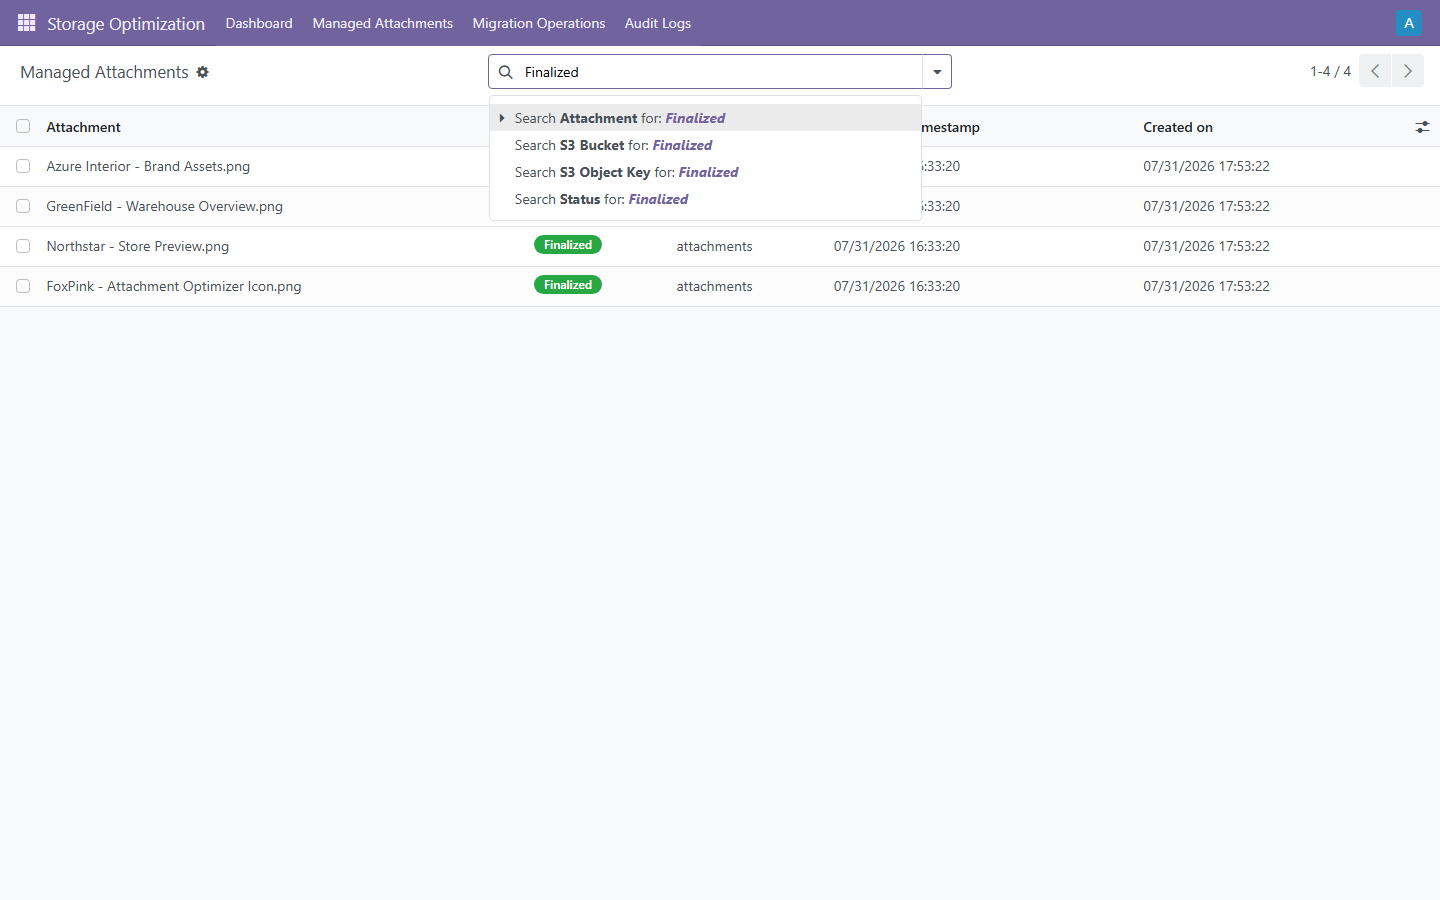
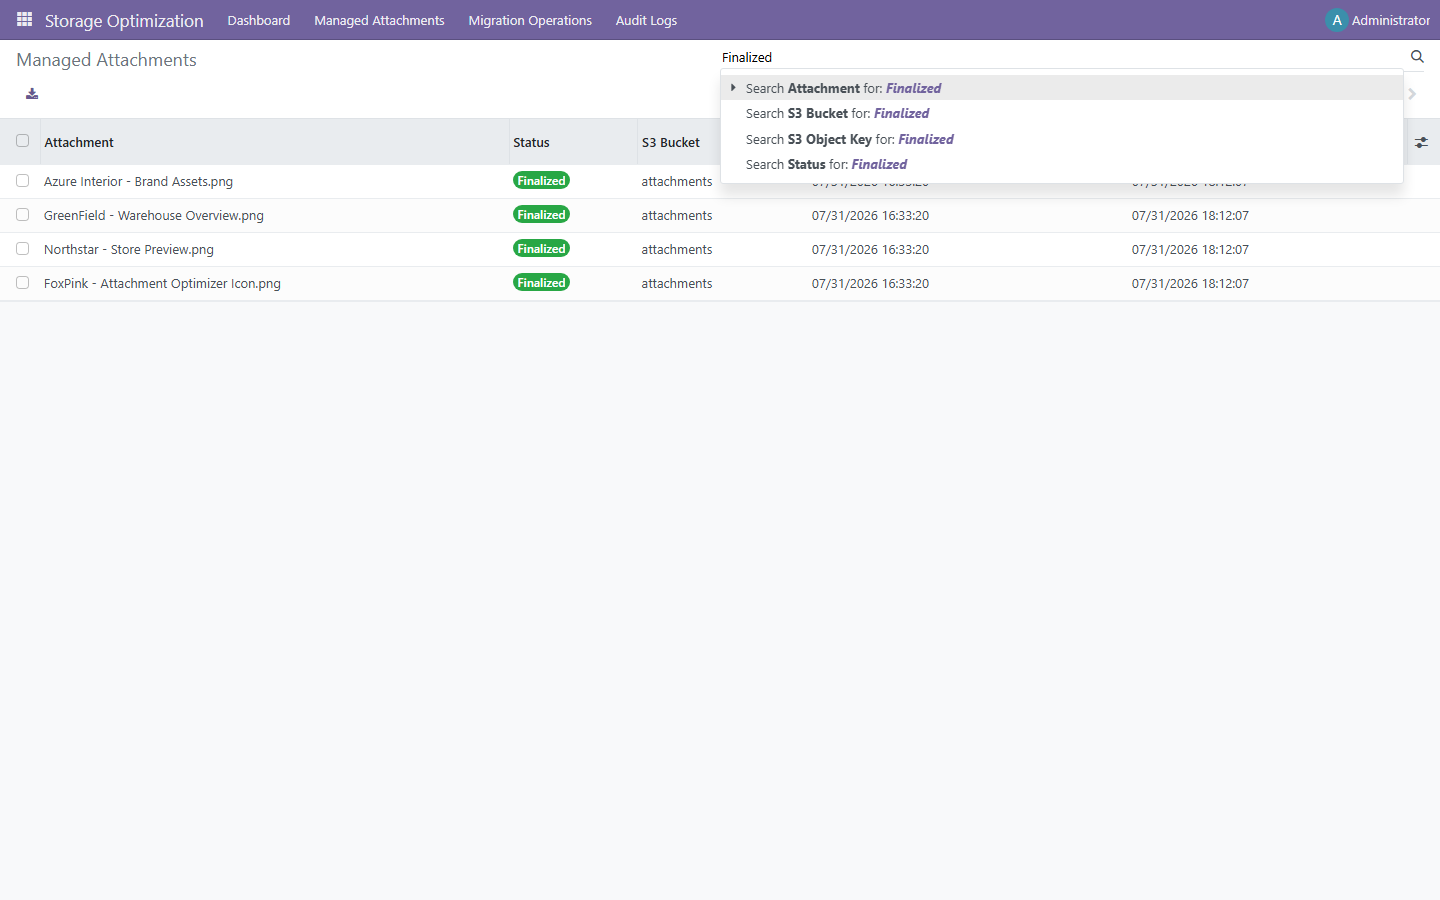
[16.0] Port module, verify flows, and refresh screenshots

diff --git a/attachment_optimizer/static/description/index.html b/attachment_optimizer/static/description/index.html
@@ -135,7 +135,7 @@
             </div>
         </div>
         <div style="border:1px solid #bae6fd; background:#f0f9ff; border-radius:10px; padding:14px 20px; color:#075985; text-align:center; font-size:13px; line-height:1.6;">
-            <strong>Transparent roadmap:</strong> Pro features are planned and are not included in version 17.0.1.0.1. Every feature presented elsewhere on this page is included in the Free Edition.
+            <strong>Transparent roadmap:</strong> Pro features are planned and are not included in version 16.0.1.0.1. Every feature presented elsewhere on this page is included in the Free Edition.
         </div>
 
         <!-- SCREENSHOTS GALLERY -->
@@ -289,7 +289,7 @@
                 Licensed under LGPL-3 &mdash; free to use, modify and distribute.
             </p>
             <div style="display:inline-block; border:2px solid #4f46e5; color:#4f46e5; font-weight:700; font-size:13px; padding:10px 28px; border-radius:8px; letter-spacing:0.2px;">Support: aduy000@gmail.com</div>
-            <p style="font-size:11px; color:#94a3b8; margin:20px 0 0;">Version 17.0.1.0.1 &middot; Built and maintained by FoxPink</p>
+            <p style="font-size:11px; color:#94a3b8; margin:20px 0 0;">Version 16.0.1.0.1 &middot; Built and maintained by FoxPink</p>
         </div>
 
     </div>

diff --git a/attachment_optimizer/__init__.py b/attachment_optimizer/__init__.py
@@ -1,8 +1,16 @@
+from odoo import SUPERUSER_ID, api
+
 from . import models
 from . import wizard
 
 
-def _post_init_hook(env):
+def _hook_env(env_or_cr, registry=None):
+    if registry is None:
+        return env_or_cr
+    return api.Environment(env_or_cr, SUPERUSER_ID, {})
+
+def _post_init_hook(env_or_cr, registry=None):
+    env = _hook_env(env_or_cr, registry)
     group = env.ref('attachment_optimizer.group_storage_optimization_manager', raise_if_not_found=False)
     if group:
         base_user = env.ref('base.group_user')
@@ -11,7 +19,8 @@ def _post_init_hook(env):
         group.users = [(4, admin.id)]
 
 
-def _uninstall_hook(env):
+def _uninstall_hook(env_or_cr, registry=None):
+    env = _hook_env(env_or_cr, registry)
     env['ir.config_parameter'].sudo().search([
         ('key', '=like', 'attachment_storage.%'),
     ]).unlink()

diff --git a/attachment_optimizer/services/health_engine.py b/attachment_optimizer/services/health_engine.py
@@ -449,7 +449,7 @@ class RuntimeHealth(HealthCheckHandler):
             findings.append(self.ok('RUNTIME_PYTHON', 'Python %s' % pyver))
         else:
             findings.append(self.warning(
-                'RUNTIME_PYTHON_OLD',
+                'RUNTIME_PYTHON',
                 'Python %s is below recommended 3.10+' % pyver,
                 'Upgrade Python to 3.10 or later',
             ))

diff --git a/attachment_optimizer/__manifest__.py b/attachment_optimizer/__manifest__.py
@@ -1,6 +1,6 @@
 {
     "name": "Attachment Optimizer",
-    "version": "17.0.1.0.1",
+    "version": "16.0.1.0.1",
     "category": "Storage",
     "summary": "Safely replicate and serve Odoo attachments from S3-compatible storage.",
     "description": """

diff --git a/README.md b/README.md
@@ -4,7 +4,7 @@
 
 ![Attachment Optimizer](attachment_optimizer/static/description/preview.png)
 
-**Version:** 17.0.1.0.1 — **License:** LGPL-3 — **Publisher:** FoxPink — **Validated release available for every Odoo series from 14.0 to 19.0.**
+**Version:** 16.0.1.0.1 — **License:** LGPL-3 — **Publisher:** FoxPink — **Validated release available for every Odoo series from 14.0 to 19.0.**
 
 ---
 
@@ -206,7 +206,7 @@ The planned Pro Edition will focus on measurable storage savings and automation 
 - **Provider-to-provider migration** — move verified objects between supported S3-compatible providers
 - **Operational alerts and reports** — notify administrators about failed queues, storage health, policy violations, and recovery actions
 
-> **Roadmap notice:** Pro features are planned and are not included in version 17.0.1.0.1. The Free Edition remains fully usable for safe, verified S3 replication and migration assessment.
+> **Roadmap notice:** Pro features are planned and are not included in version 16.0.1.0.1. The Free Edition remains fully usable for safe, verified S3 replication and migration assessment.
 
 ---
 
@@ -230,8 +230,8 @@ Every supported Odoo version has its own dedicated branch and release package.
 |---|---|
 | 19.0 | [Branch 19.0](https://github.com/FoxPinkHQ/attachment-optimizer/tree/19.0) |
 | 18.0 | [Branch 18.0](https://github.com/FoxPinkHQ/attachment-optimizer/tree/18.0) |
-| 17.0 | ✅ This branch |
-| 16.0 | [Branch 16.0](https://github.com/FoxPinkHQ/attachment-optimizer/tree/16.0) |
+| 17.0 | [Branch 17.0](https://github.com/FoxPinkHQ/attachment-optimizer/tree/17.0) |
+| 16.0 | ✅ This branch |
 | 15.0 | [Branch 15.0](https://github.com/FoxPinkHQ/attachment-optimizer/tree/15.0) |
 | 14.0 | [Branch 14.0](https://github.com/FoxPinkHQ/attachment-optimizer/tree/14.0) |
 
